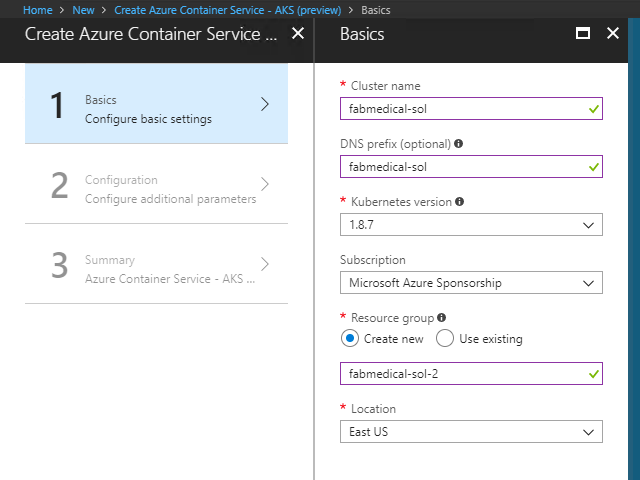
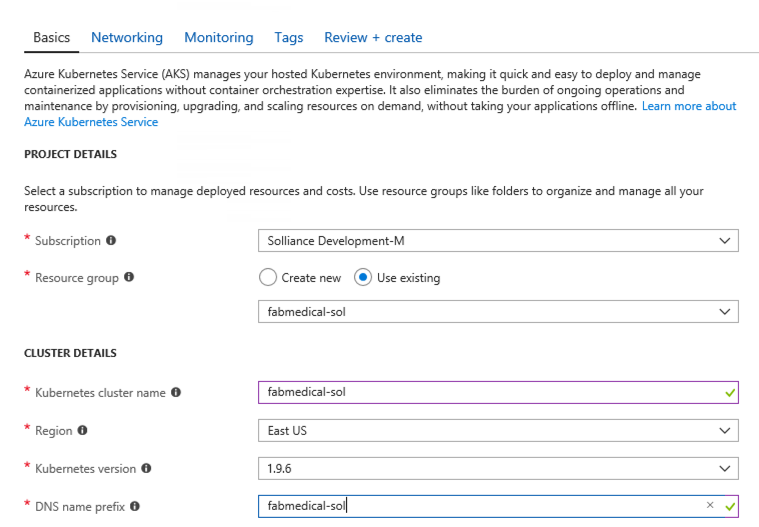
updates for latest AKS setup UI in Azure Portal

diff --git a/Lab_Setup/Azure_AKS_Lab_Setup/Lab_Setup_For_Azure_AKS.md b/Lab_Setup/Azure_AKS_Lab_Setup/Lab_Setup_For_Azure_AKS.md
@@ -1,6 +1,6 @@
 # Azure Container Service (AKS) Lab Setup
 
-> LAST UPDATED: 5/6/2018
+> LAST UPDATED: 5/19/2018
 
 This document describes all of the preparation you should take care of prior to the workshop.
 If you do not have time, you may work on this during the workshop but may not complete as many lab steps
@@ -237,6 +237,7 @@ In this section, you will create a Linux VM to act as your build agent. You will
     ![Microsoft Azure](images/ex0-task5-image_04.png)
 
 5. From the Settings blade, accept the default values for all settings and select OK.
+
 6. From the Create blade, you should see that validation passed and select Create.
 
     ![Microsoft Azure](images/ex0-task5-image_05.png)
@@ -314,6 +315,7 @@ In this task, you will update the packages and install Docker engine.
 7. When the command has completed, check the Docker version installed by executing this command. The output may look something like that shown in the following screen shot. Note that the server version is not shown yet, because you didn’t run the command with elevated privileges (to be addressed shortly).
 
     `docker version`
+
     ![WSL](images/ex0-task7-image_01.png)
 
 8. You may check the versions of node.js and npm as well, just for information purposes, using these commands.
@@ -325,6 +327,7 @@ In this task, you will update the packages and install Docker engine.
 9. Add your user to the Docker group so that you do not have to elevate privileges with sudo for every command. You can ignore any errors you see in the output.
 
     `sudo usermod -aG docker $USER`
+
     ![WSL](images/ex0-task7-image_02.png)
 
 10. In order for the user permission changes to take effect, exit the SSH session by typing ‘exit’, then press \<Enter>. Repeat the commands in Task 6: Connect securely to the build agent from step 4 to establish the SSH session again.
@@ -413,40 +416,48 @@ Azure Container Service requires an Azure Active Directory service principal to 
 
 In this task, you will create your Azure Container Service (AKS) cluster. You will use the same SSH key you created previously to connect to this cluster in the next task.
 
-> NOTE: In this step, you will be asked to create a second Resource Group as part of the template for creating the Azure Container Service cluster. This is due to the current template not providing the option to select an existing Resource Group, and this may change in the future.
-
 1. From the Azure Portal, select + Create a resource, Containers and select Azure Container Service - AKS.
 
     ![Microsoft Azure](images/ex0-task10-image_01.png)
 
-2. In the Basics blade provide the information shown in the screenshot that follows:
+2. In the Basics blade provide the information shown in the screenshots that follows:
 
-    * Name: Enter fabmedical-SUFFIX.
-    * DNS Prefix: Enter fabmedical-SUFFIX.
-    * Kubernetes version: keep default.
+    > Note: you may need to scroll to see all values.
+
     * Subscription: Choose your subscription which you have been using throughout the lab.
-    * Resource group: Create new and provide a unique name. Since the template does not support using an existing Resource Group, provide a new name such adding a “2” to the suffix, such as fabmedical-SUFFIX-2.
-    * Location: Choose a location.
+    * Resource group: Select the resource group you have been using through the lab.    
+    * Name: Enter fabmedical-SUFFIX.
+    * Region: Choose the same region as the resource group.
+    * Kubernetes version: 1.9.6.
+    * DNS Prefix: Enter fabmedical-SUFFIX.
 
         ![Microsoft Azure](images/ex0-task10-image_02.png)
+        
+    * Configure your service principal
+        * Service principal client ID: Use the service principal “appId” from the previous step.
+        * Service principal client secret: Use the service principal “password” from the previous step.
 
-3. Select OK.
-4. On the Configuration blade provide:
+            ![Microsoft Azure](images/2018-05-19_08-31-32.png)  
+             
+    * Configure your VM size
+    
+        * Click "Chagnge Size"
+        * Search for "D2"
+        * Select "D2_v2"
+         
+            ![Microsoft Azure](images/2018-05-19_08-33-41.png) 
+            
+    * Set the Node Count to 2
+    
+        ![Microsoft Azure](images/2018-05-19_08-34-12.png) 
+                 
+1. Click "Next: Networking".
+1. Keep the defaults and click "Next: Monitoring"
+1. Keep the defaults and click "Next: Tags"
+1. Keep the defaults and click "Review + create"
+1. You should see that validation passed; Click "Create".
 
-    * User name: Enter adminfabmedical
-    * SSH Public Key: Paste the same SSH public key (fabmedical.pub) you used for the agent VM previously.
-    * Service principal client ID: Use the service principal “appId” from the previous step.
-    * Service principal client secret: Use the service principal “password” from the previous step.
-    * Node count: 2
-    * Node virtual machine size: Standard DS2_V2
-    * OS Disk Size: leave empty
-
-        ![Microsoft Azure](images/ex0-task10-image_03.png)
-
-5. Select OK.
-6. On the Summary blade, you should see that validation passed; select OK.
-
-    ![Microsoft Azure](images/ex0-task10-image_04.png)
+    ![Microsoft Azure](images/2018-05-19_08-36-14.png)
 
 7. The Azure Container Service cluster will begin deployment to your Azure subscription.
 
@@ -457,20 +468,21 @@ In this task, you will create your Azure Container Service (AKS) cluster. You wi
     ![Microsoft Azure](images/ex0-task10-image_06.png)
 
 > NOTE: If you experience errors related to lack of available cores, you may have to delete some other compute resources or request additional cores to your subscription and then try this again.
+---
+> ALTERNATIVE: the following az aks create command is an alternate way to create the cluster. (requires the azure cli, which you will install in the next step)
 
-```text
-NOTE: the following az aks create command is an alternate way to create the cluster
-
-az aks create `
-    --verbose `
-    --output table `
-    --kubernetes-version 1.9.2 `
-    --node-count 4 `
-    --name ${CLUSTER_NAME} `
-    --resource-group ${RESOURCE_GROUP_NAME} `
-    --client-secret ${SP_PASSWORD} `
-    --service-principal ${SP_APP_ID} `
-    --ssh-key-value ${SSH_KEY_PATH}
+```bash
+az aks create \
+    --verbose \
+    --output table \
+    --kubernetes-version 1.9.6 \
+    --node-count 2 \
+    --node-vm-size Standard_D2_v2_Promo \
+    --name fabmedical-${SUFFIX} \
+    --resource-group fabmedical-${SUFFIX} \
+    --client-secret ${SP_PASSWORD} \
+    --service-principal ${SP_APP_ID} \
+    --ssh-key-value .ssh/fabmedical.pub
 ```
 
 ### Task 11: Install Azure CLI
